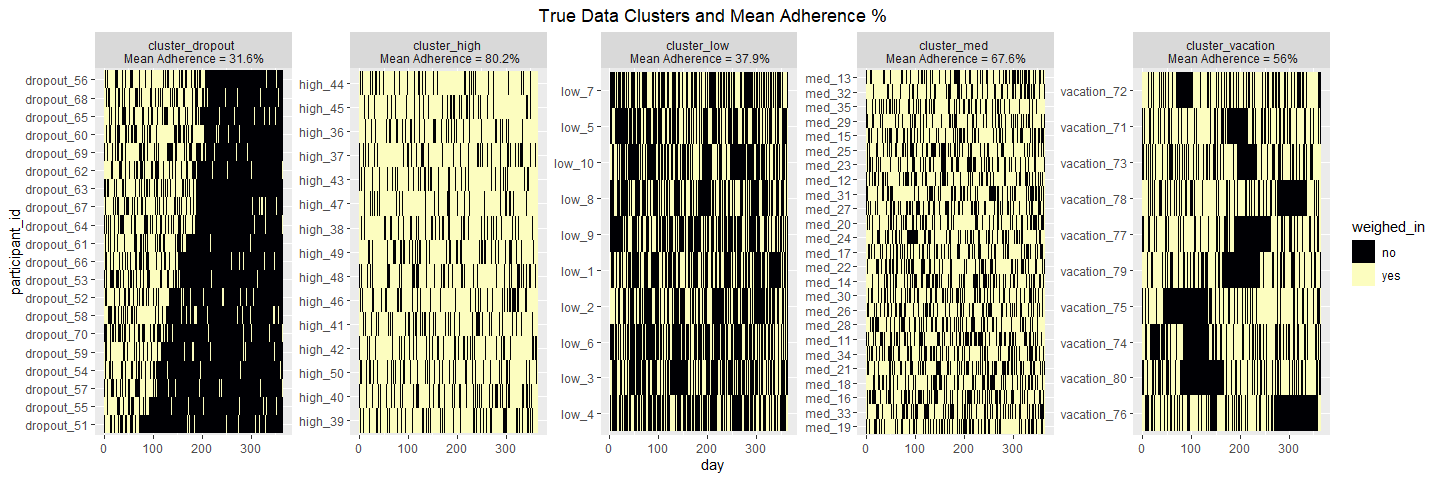
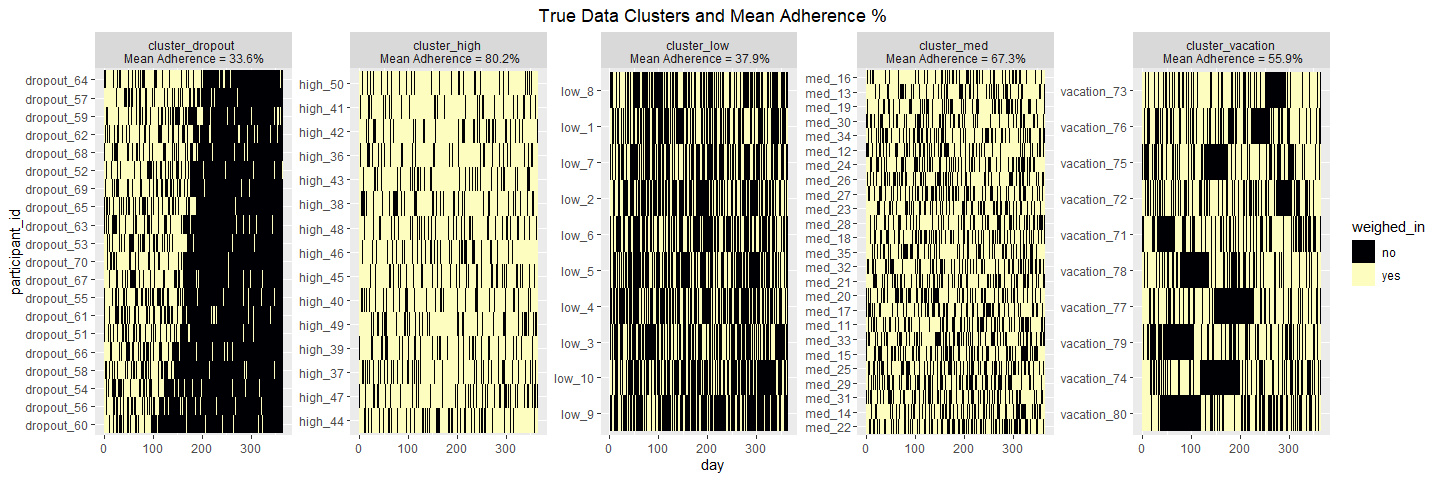
Add clustering to readme

Changed region(s): [[0.2188, 0.0938, 0.9375, 0.9062], [0.0312, 0.125, 0.1875, 0.9062]]

diff --git a/README.md b/README.md
@@ -51,6 +51,7 @@ ggplot(sim_plot, aes(x = day, y = participant_id, fill = weighed_in)) +
 
   - Cluster the data using Euclidean, Jaccard, and DTW and show how to
     use probability windows and linkages
+      - Calculate distance
 
 <!-- end list -->
 
@@ -70,3 +71,55 @@ jac_dist_roll <- distance(roll_mat, method = 'jaccard')
 dtw_dist_roll <- dist(roll_mat, method = 'dtw')
 euc_dist_roll <- distance(roll_mat, method = 'euclidean')
 ```
+
+  - Cluster - specify linkage and number of clusters
+
+<!-- end list -->
+
+``` r
+### Method can be specified as 'average', 'single', 'complete', or 'Ward'
+### Provide the distance matrix you want to cluster
+clust <- hclust(dtw_dist_roll, method = "average")
+
+### Specify the number of clusters 
+cut <- cutree(clust, k = 5)
+
+### Visualize dendrogram
+plot(clust)
+rect.hclust(clust, k = 5, border = 2:6)
+```
+
+![](README_files/figure-gfm/dendrogram-1.png)<!-- -->
+
+  - Visualize clustering results
+
+<!-- end list -->
+
+``` r
+### Add simulated clustering labels
+hclus <- stats::cutree(clust, k = 5) %>% 
+  as.data.frame(.) %>%
+  dplyr::rename(.,cluster_group = .) %>%
+  tibble::rownames_to_column("type_col")
+
+hcdata <- ggdendro::dendro_data(clust)
+names_order <- hcdata$labels$label
+
+### Plot - plotting the binary data heat map based on the rolling average clustering
+data.frame(t(adherence_mat[,-c(1:13)])) %>%
+  dplyr::mutate(index = 1:352) %>%
+  dplyr::rename_all(funs(stringr::str_replace_all(., "X", ""))) %>% 
+  tidyr::gather(key = type_col,value = value, -index) %>%
+  dplyr::full_join(., hclus, by = "type_col") %>% 
+  mutate(type_col = factor(type_col, levels = as.character(names_order)), 
+         weighed_in = factor(value, levels = 0:1, labels = c("no", "yes"))) %>% 
+  ggplot(aes(x = index, y = type_col, fill = weighed_in)) +
+  geom_tile() +
+  scale_fill_viridis(discrete = TRUE, option="A") +
+  facet_wrap(~cluster_group, ncol = 5, scales = "free") + 
+  guides(fill=FALSE) + 
+  theme_bw() + ylab("Subject") +
+  theme(strip.background = element_blank(), strip.text = element_blank())
+```
+
+![](README_files/figure-gfm/clustfig-1.png)<!-- -->
